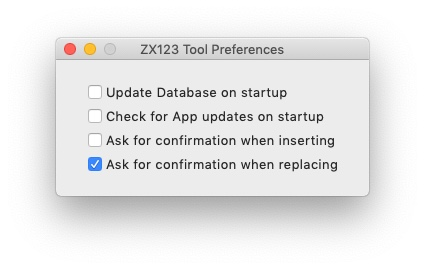
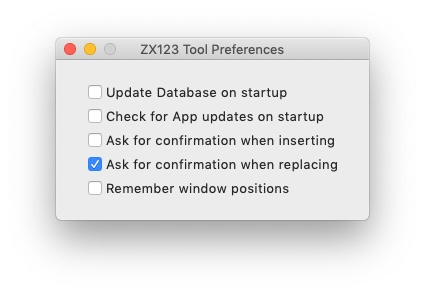
Added option to remember Window positions

Changed region(s): [[0.1835, 0.2667, 0.7953, 0.6815], [0.1224, 0.1185, 0.8871, 0.237], [0.1224, 0.7111, 0.8871, 0.7704]]

diff --git a/docs/en/manual.html b/docs/en/manual.html
@@ -661,7 +661,7 @@ pre.rouge {
 <div class="details">
 <span id="author" class="author">kounch</span><br>
 <span id="email" class="email"><a href="mailto:kounch@users.noreply.github.com">kounch@users.noreply.github.com</a></span><br>
-<span id="revnumber">version 1.0.1</span>
+<span id="revnumber">version 1.0.2</span>
 </div>
 <div id="toc" class="toc2">
 <div id="toctitle">Index</div>
@@ -941,6 +941,7 @@ Boot Timer</p></td>
 <div class="paragraph text-center">
 <p><span class="image"><img src="../img/ROMsSelect.jpg" alt="ROMsSelect"></span></p>
 </div>
+<div style="page-break-after: always;"></div>
 <div class="paragraph">
 <p>When loading a ROM file, you can specify the flags to use when using the ROM, such as memory contention, DivMMC, timings of different Spectrum models, etc.</p>
 </div>
@@ -956,6 +957,7 @@ Boot Timer</p></td>
 <div class="paragraph">
 <p>From the menu, you can choose several options that try to update, either individually or all together, BIOS and cores to the latest version, according to the contents of the JSON file, being possible, when updating cores, to search for the ZX-Uno standard version, ZXUnCore (RGB666 DAC) adapted cores or 2MB internal memory adapted cores.</p>
 </div>
+<div style="page-break-after: always;"></div>
 </div>
 <div class="sect3">
 <h4 id="_preferences">Preferences</h4>
@@ -978,6 +980,9 @@ Boot Timer</p></td>
 </li>
 <li>
 <p>Ask for a confirmation before applying changes when replacing the contents of an existing core or ROM</p>
+</li>
+<li>
+<p>Remember main window and preferences window positions (if not, both windows are always centered)</p>
 </li>
 </ul>
 </div>
@@ -1638,8 +1643,8 @@ All rights reserved.</p>
 </div>
 <div id="footer">
 <div id="footer-text">
-Version 1.0.1<br>
-Last updated 2021-12-21 15:28:49 +0100
+Version 1.0.2<br>
+Last updated 2021-12-23 20:28:35 +0100
 </div>
 </div>
 </body>

diff --git a/docs/es/manual.html b/docs/es/manual.html
@@ -661,7 +661,7 @@ pre.rouge {
 <div class="details">
 <span id="author" class="author">kounch</span><br>
 <span id="email" class="email"><a href="mailto:kounch@users.noreply.github.com">kounch@users.noreply.github.com</a></span><br>
-<span id="revnumber">version 1.0.1</span>
+<span id="revnumber">version 1.0.2</span>
 </div>
 <div id="toc" class="toc2">
 <div id="toctitle">Índice</div>
@@ -954,6 +954,7 @@ pre.rouge {
 <div class="paragraph">
 <p>Desde el menú, se pueden elegir varias opciones que permiten intentar actualizar, tanto de forma individual como conjunta, BIOS y Cores a la última versión posible según se indica en el fichero JSON, siendo posible, en el caso de la actualización de cores, elegir si se quiere buscar la versión normal para cualquier ZX-Uno, cores específicos para ZXUnCore (con soporte para DAC RGB666) o cores que utilizan 2MB de memoria (interna).</p>
 </div>
+<div style="page-break-after: always;"></div>
 </div>
 <div class="sect3">
 <h4 id="_preferencias">Preferencias</h4>
@@ -976,6 +977,9 @@ pre.rouge {
 </li>
 <li>
 <p>Pedir confirmación antes de aplicar cambios al sustituir el contenido de un core o ROM existente (Ask for confirmation when replacing)</p>
+</li>
+<li>
+<p>Recordar la ubicación de la ventana principal y la de preferencias, o bien mostrarlas siempre en el centro (Remember window positions)</p>
 </li>
 </ul>
 </div>
@@ -1634,8 +1638,8 @@ All rights reserved.</p>
 </div>
 <div id="footer">
 <div id="footer-text">
-Version 1.0.1<br>
-Last updated 2021-12-21 15:28:53 +0100
+Version 1.0.2<br>
+Last updated 2021-12-23 20:27:36 +0100
 </div>
 </div>
 </body>

diff --git a/zx123_tool_gui/__init__.py b/zx123_tool_gui/__init__.py
@@ -61,6 +61,7 @@ class App(tk.Tk):
             # MacOS Open File Events
             self.createcommand('::tk::mac::OpenDocument', self.open_file)
             self.createcommand('::tk::mac::ShowPreferences', self.open_prefs)
+            self.createcommand('::tk::mac::Quit', self.do_close)
         else:
             # Other
             pass
@@ -86,6 +87,7 @@ class App(tk.Tk):
 
         # Main Window
         self.title('ZX123 Tool')
+        self.protocol("WM_DELETE_WINDOW", self.do_close)
         self.resizable(False, False)
 
         self.main_frame = ttk.Frame(self, padding=5)
@@ -103,8 +105,14 @@ class App(tk.Tk):
         self.rom_table = self.create_rom_table()
         self.create_buttons()
 
-        self.tk.eval(f'tk::PlaceWindow {self._w} center')
         self.update_idletasks()
+        if self.dict_prefs.get('remember_pos', False):
+            height, width = self.winfo_height(), self.winfo_width()
+            x_pos, y_pos = self.dict_prefs.get('mainwindow',
+                                               (self.winfo_x, self.winfo_y))
+            self.geometry(f'{width}x{height}+{x_pos}+{y_pos}')
+        else:
+            self.tk.eval(f'tk::PlaceWindow {self._w} center')
 
         # Menu
         self.build_menubar()
@@ -121,6 +129,12 @@ class App(tk.Tk):
         # Load files from command line args
         if len(sys.argv) > 1:
             self.open_file(sys.argv[1:])
+
+    def do_close(self, *_):
+        """Destroy Event"""
+        self.dict_prefs['mainwindow'] = (self.winfo_x(), self.winfo_y())
+        self.save_prefs()
+        self.destroy()
 
     def check_updates(self):
         """Gets the latest release version from GitHub"""
@@ -140,7 +154,8 @@ class App(tk.Tk):
             'update_json': False,
             'check_updates': False,
             'ask_insert': False,
-            'ask_replace': True
+            'ask_replace': True,
+            'remember_pos': False
         }
         str_prefs = os.path.join(JSON_DIR, 'zx123_prefs.json')
         if not os.path.isfile(str_prefs):

diff --git a/zx123_tool_gui/_extra_gui.py b/zx123_tool_gui/_extra_gui.py
@@ -313,7 +313,8 @@ class PrefWindow:
             'update_json': 'Update Database on startup',
             'check_updates': 'Check for App updates on startup',
             'ask_insert': 'Ask for confirmation when inserting',
-            'ask_replace': 'Ask for confirmation when replacing'
+            'ask_replace': 'Ask for confirmation when replacing',
+            'remember_pos': 'Remember window positions'
         }
         self.extra_vars = []
         for index, key in enumerate(self.dict_prefs):
@@ -326,13 +327,23 @@ class PrefWindow:
                                       offvalue=0)
             check_1.grid(column=0, row=index, sticky='w', padx=10, pady=2)
 
-        center_on_parent(parent, self.top)
+        if self.parent.dict_prefs.get('remember_pos', False):
+            self.top.update_idletasks()
+            height, width = self.top.winfo_height(), self.top.winfo_width()
+            x_pos, y_pos = self.parent.dict_prefs.get(
+                'prefwindow', (self.top.winfo_x, self.top.winfo_y))
+            self.top.geometry(f'{width}x{height}+{x_pos}+{y_pos}')
+        else:
+            center_on_parent(parent, self.top)
         self.top.update()
 
     def do_close(self, *_):
         """Process Cancel Button"""
         for index, key in enumerate(self.dict_prefs):
             self.parent.dict_prefs[key] = self.extra_vars[index].get()
+
+        self.parent.dict_prefs['prefwindow'] = (self.top.winfo_x(),
+                                                self.top.winfo_y())
         self.parent.save_prefs()
 
         self.top.destroy()
@@ -362,4 +373,4 @@ def center_on_parent(root, window):
     y_coordinate = int(parent.winfo_y() +
                        (parent.winfo_height() / 2 - height / 2))
 
-    window.geometry(f"{width}x{height}+{x_coordinate}+{y_coordinate}")
+    window.geometry(f'{width}x{height}+{x_coordinate}+{y_coordinate}')

diff --git a/zx123_tool_gui/_main_gui.py b/zx123_tool_gui/_main_gui.py
@@ -144,9 +144,6 @@ def bind_keys(self):
     self.bind_all(f'<{str_bind}w>', lambda event: self.full_close_image())
     self.bind_all(f'<{str_bind}i>', lambda event: self.show_info())
 
-    if sys.platform == 'darwin':
-        self.bind_all(f'<{str_bind}q>', lambda event: self.destroy())
-
 
 def unbind_keys(self):
     """Unbind Menu Keys"""

diff --git a/zx123_tool.py b/zx123_tool.py
@@ -53,7 +53,7 @@ if sys.version_info.major == 3:
 if os.name == 'nt':
     import msvcrt  # pylint: disable=import-error
 
-__MY_VERSION__ = '3.3.0'
+__MY_VERSION__ = '3.3.1'
 
 MAIN_URL = 'https://raw.githubusercontent.com/kounch/zx123_tool/main'
 MY_DIRPATH = os.path.dirname(sys.argv[0])
